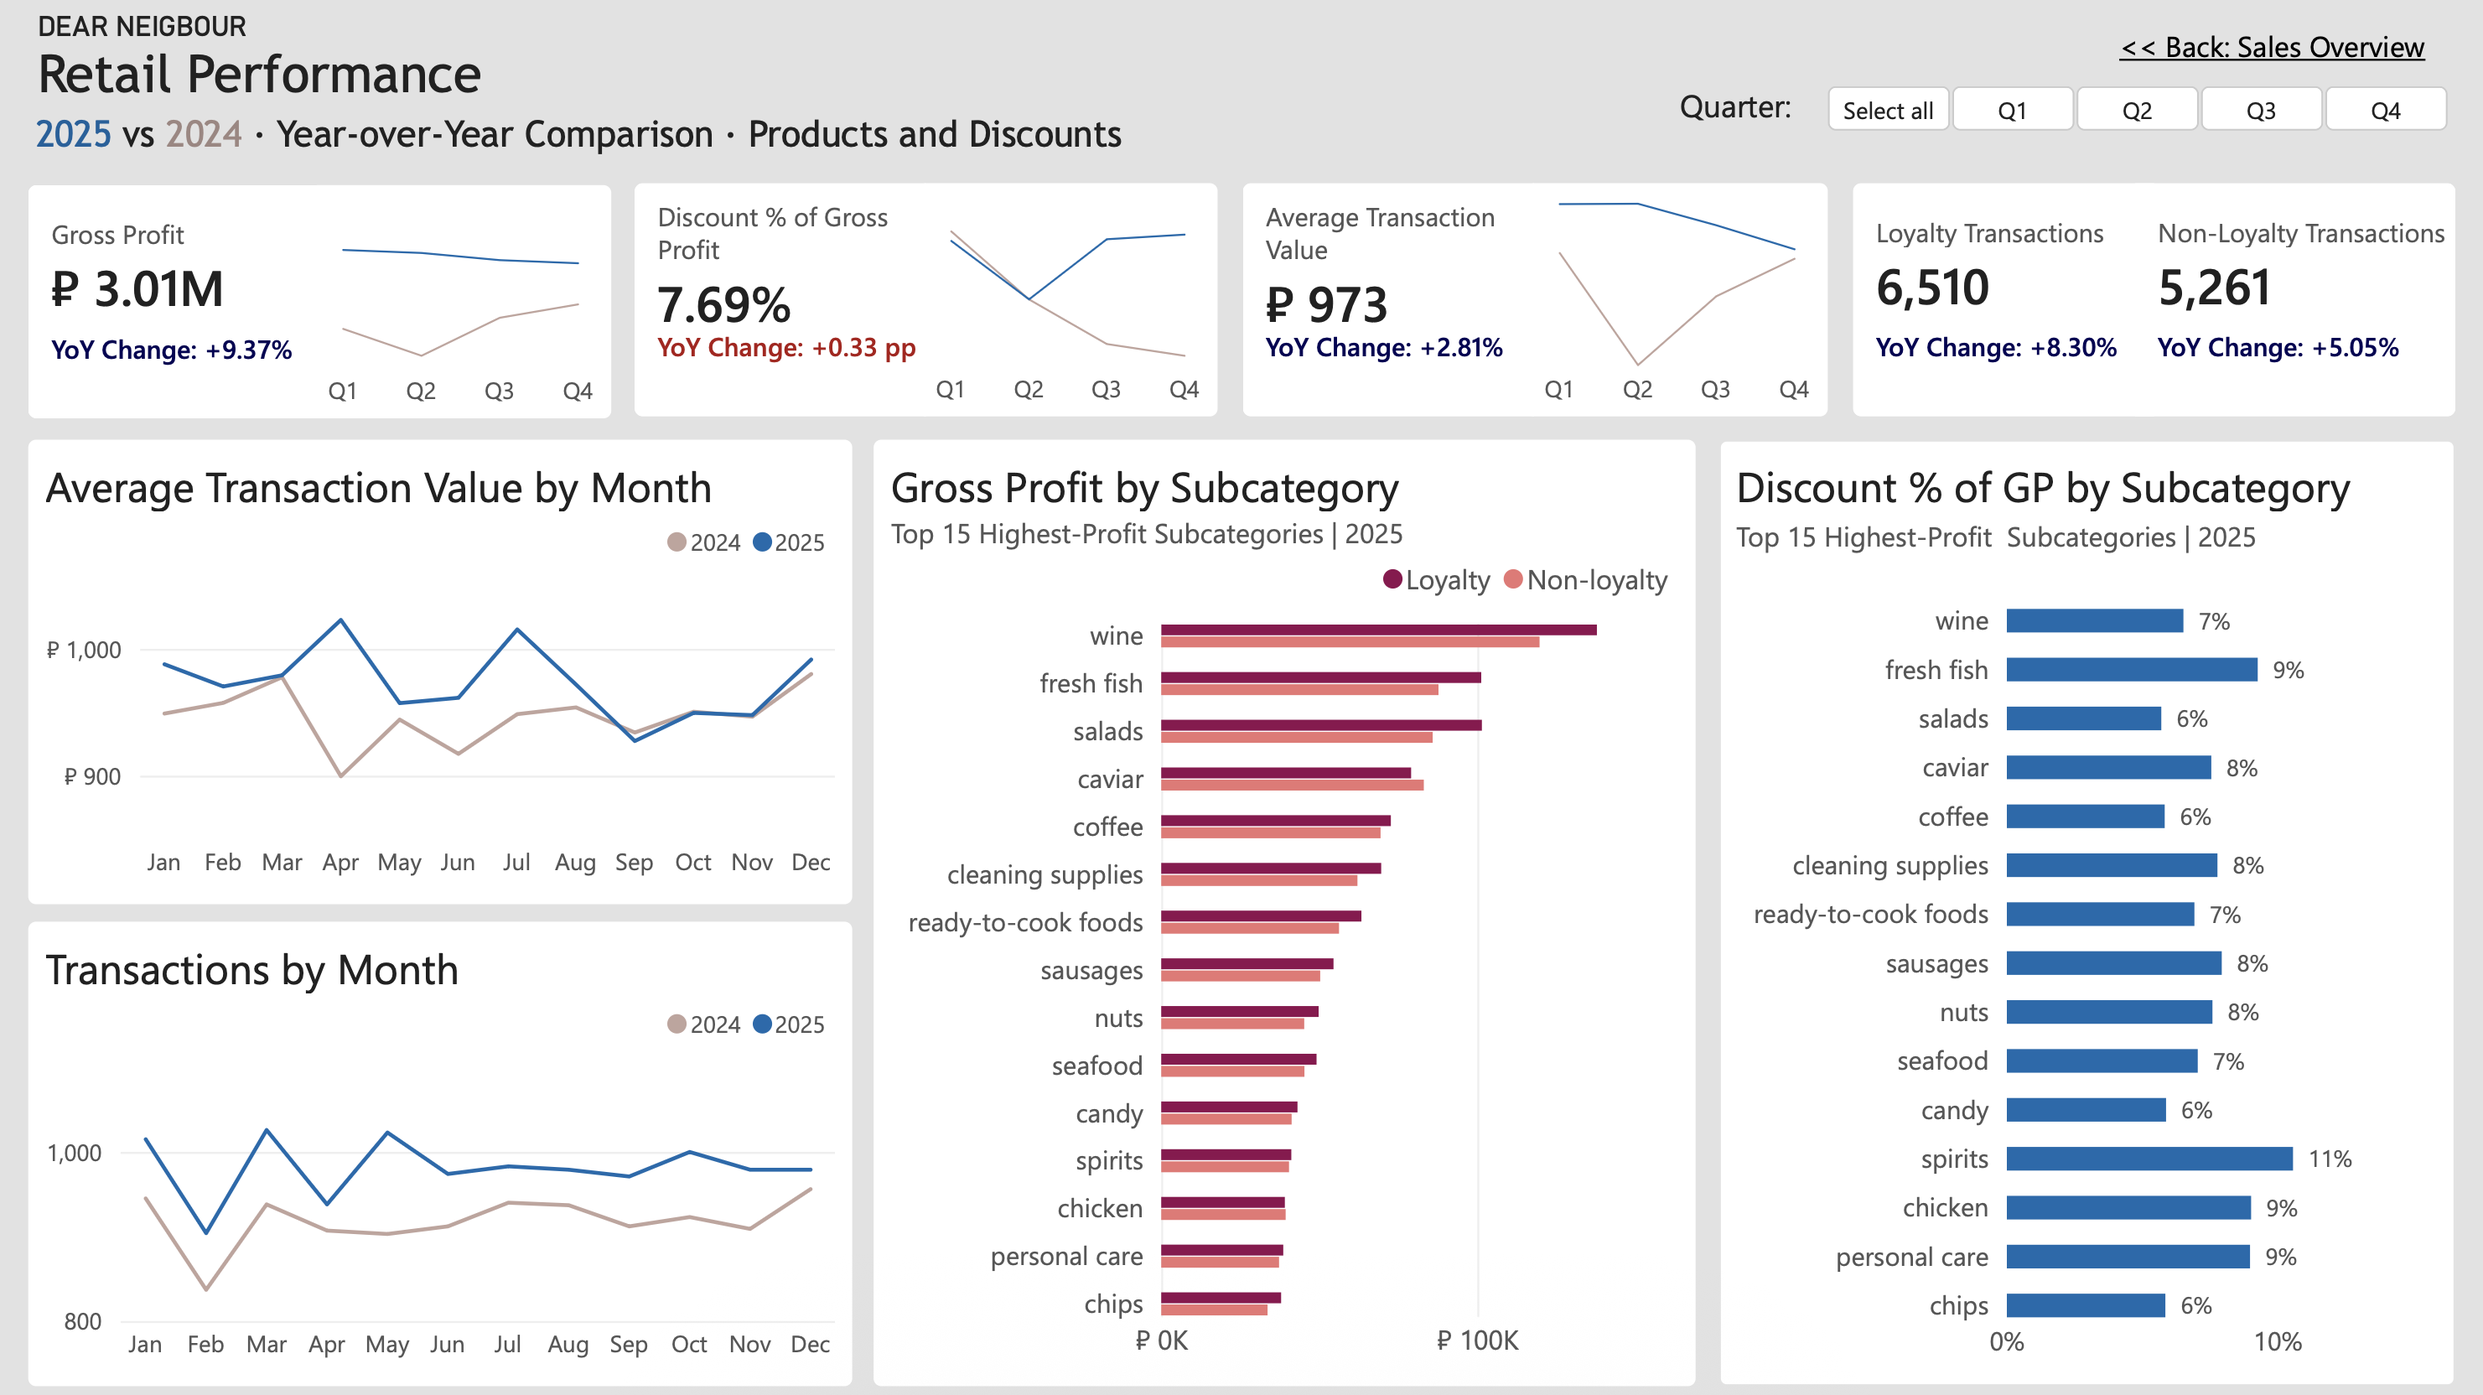
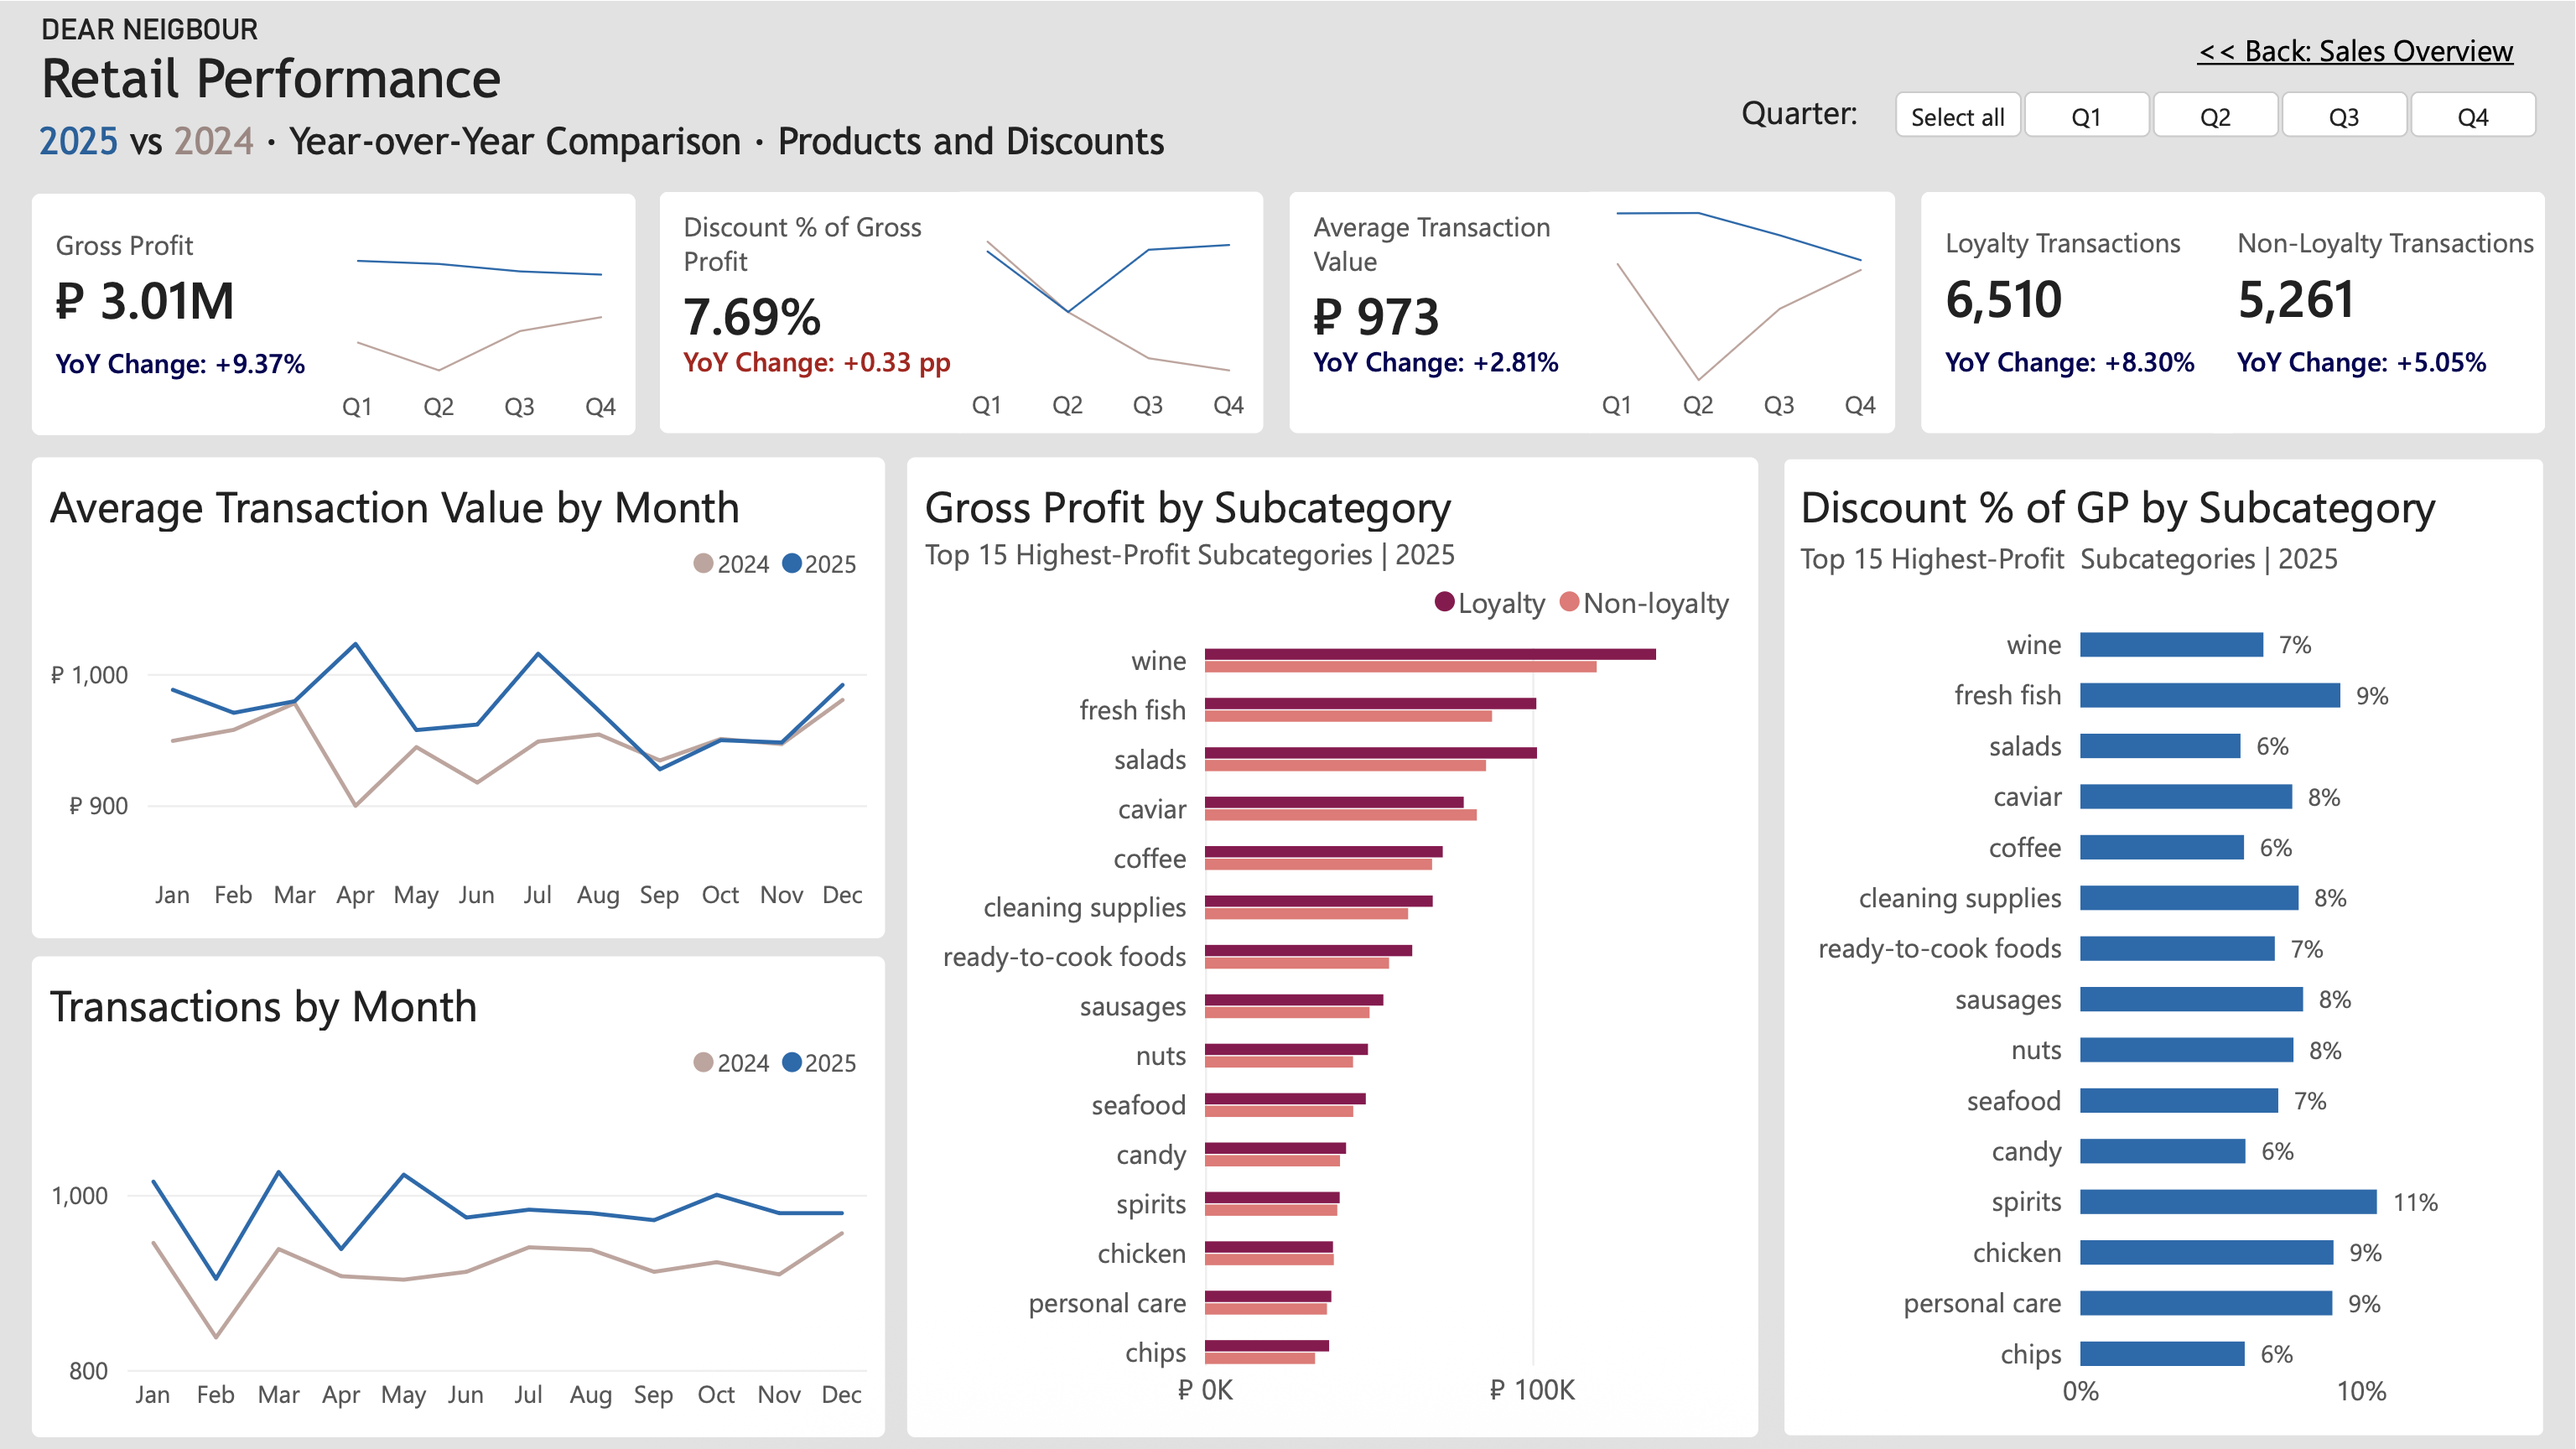
Update images in README

diff --git a/README.md b/README.md
@@ -67,12 +67,12 @@ I divided the dashboard into two pages, each focusing on a different aspect of t
 
 **Sales Overview** provides a high-level view of key performance indicators and overall trends, with a closer look at changes in gross margin. 
 
-[](viz/dashboard_sales_overview.png)
+![](https://github.com/TAbramovskaya/dear-neighbour/blob/main/viz/dashboard_sales_overview.png)
 
 It also allows users to explore performance by city, which is useful because growth in 2025 was limited in some locations and the overall figures do not tell the whole story.
 
 **Products and Discounts** focuses on monthly changes in average transaction value and transaction volume, as well as differences in gross profit and discount levels across product subcategories. 
 
-[](viz/dashboard_products_and_discounts.png)
+![](https://github.com/TAbramovskaya/dear-neighbour/blob/main/viz/dashboard_products_and_discounts.png)
 
 The bar charts show the 15 subcategories with the highest gross profit, ranked in descending order, alongside the share of gross profit accounted for by discounts. Keeping the subcategories in the same order makes it easier to compare their gross profit with the relative scale of discounts.
